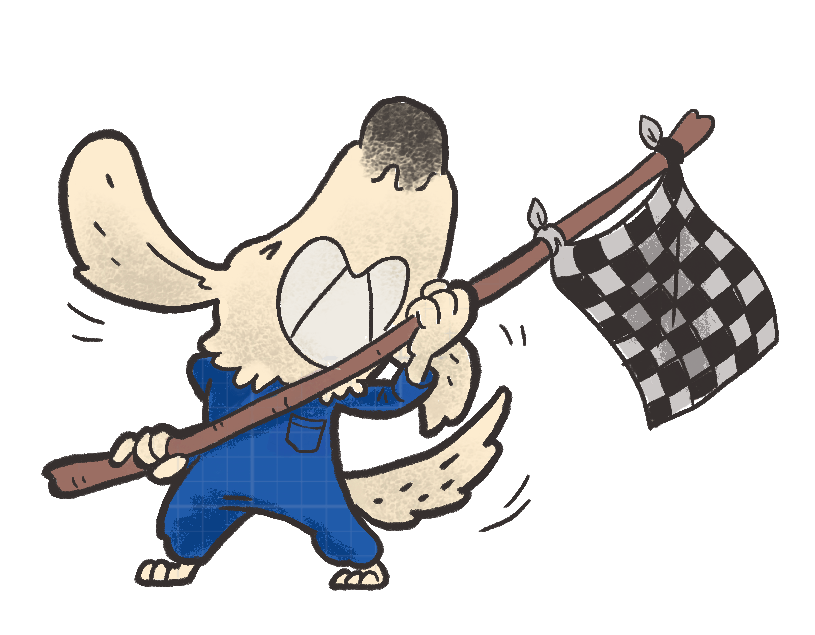
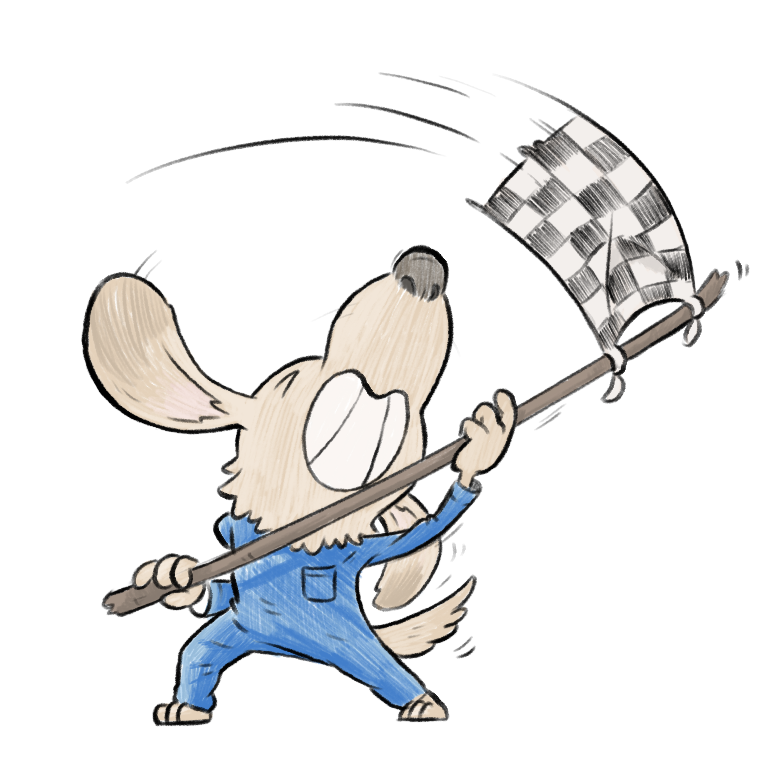
feat: update images and adjust layout in player and home pages

diff --git a/src/app/jogador/[id]/page.tsx b/src/app/jogador/[id]/page.tsx
@@ -7,7 +7,6 @@ import Link from "next/link";
 import { Player, Race } from "@/lib/types";
 import { getPlayers, getRaces, getPlayer } from "@/lib/firestore";
 import { getPlayerStats, getPlayerRaceHistory } from "@/lib/standings";
-import { RaceCard } from "@/components/RaceCard";
 
 export default function PlayerPage() {
   const params = useParams();
@@ -130,22 +129,22 @@ export default function PlayerPage() {
             <Trophy className="w-5 h-5" /> Desempenho
           </h2>
           <div className="grid grid-cols-3 gap-4 text-center">
-            <div>
-              <div className="text-3xl mb-1"><Award className="w-8 h-8 text-yellow-400" /></div>
+            <div className="text-center flex-col items-center">
+              <div className="text-3xl mb-1 w-full flex justify-center"><Award className="w-8 h-8 text-yellow-400" /></div>
               <div className="text-2xl font-bold text-gray-900">
                 {stats.firstPlaces}
               </div>
               <div className="text-xs text-gray-500">Vitórias</div>
             </div>
             <div>
-              <div className="text-3xl mb-1"><Award className="w-8 h-8 text-slate-400" /></div>
+              <div className="text-3xl mb-1  flex justify-center"><Award className="w-8 h-8 text-slate-400" /></div>
               <div className="text-2xl font-bold text-gray-900">
                 {stats.secondPlaces}
               </div>
               <div className="text-xs text-gray-500">2º lugares</div>
             </div>
             <div>
-              <div className="text-3xl mb-1"><Award className="w-8 h-8 text-amber-700" /></div>
+              <div className="text-3xl mb-1  flex justify-center"><Award className="w-8 h-8 text-amber-700" /></div>
               <div className="text-2xl font-bold text-gray-900">
                 {stats.thirdPlaces}
               </div>

diff --git a/src/app/page.tsx b/src/app/page.tsx
@@ -109,7 +109,7 @@ export default function HomePage() {
       )}
 
       <div className="w-full flex align-middle justify-center">
-        <Image src="/trofeu.png" alt="Logo" width={200} height={100} />
+        <Image src="/trofeu.png" alt="Logo" width={250} height={150} />
       </div>
 
       {/* Standings */}
@@ -120,7 +120,7 @@ export default function HomePage() {
       {races.length > 0 && (
         <>
         <div className="w-full mt-8 flex align-middle justify-center">
-          <Image src="/cat_running.png" alt="Logo" width={200} height={100} />
+          <Image src="/running.png" alt="Logo" width={250} height={150} />
         </div>
           <h2 className="text-2xl font-bold text-gray-900 mt-12 mb-4 flex items-center gap-2">
             <Clipboard className="w-5 h-5" /> Histórico de Partidas

diff --git a/src/app/globals.css b/src/app/globals.css
@@ -1,7 +1,7 @@
 @import "tailwindcss";
 
 :root {
-  --background: #f5f5f5;
+  --background: #fff;
   --foreground: #171717;
 }
 
